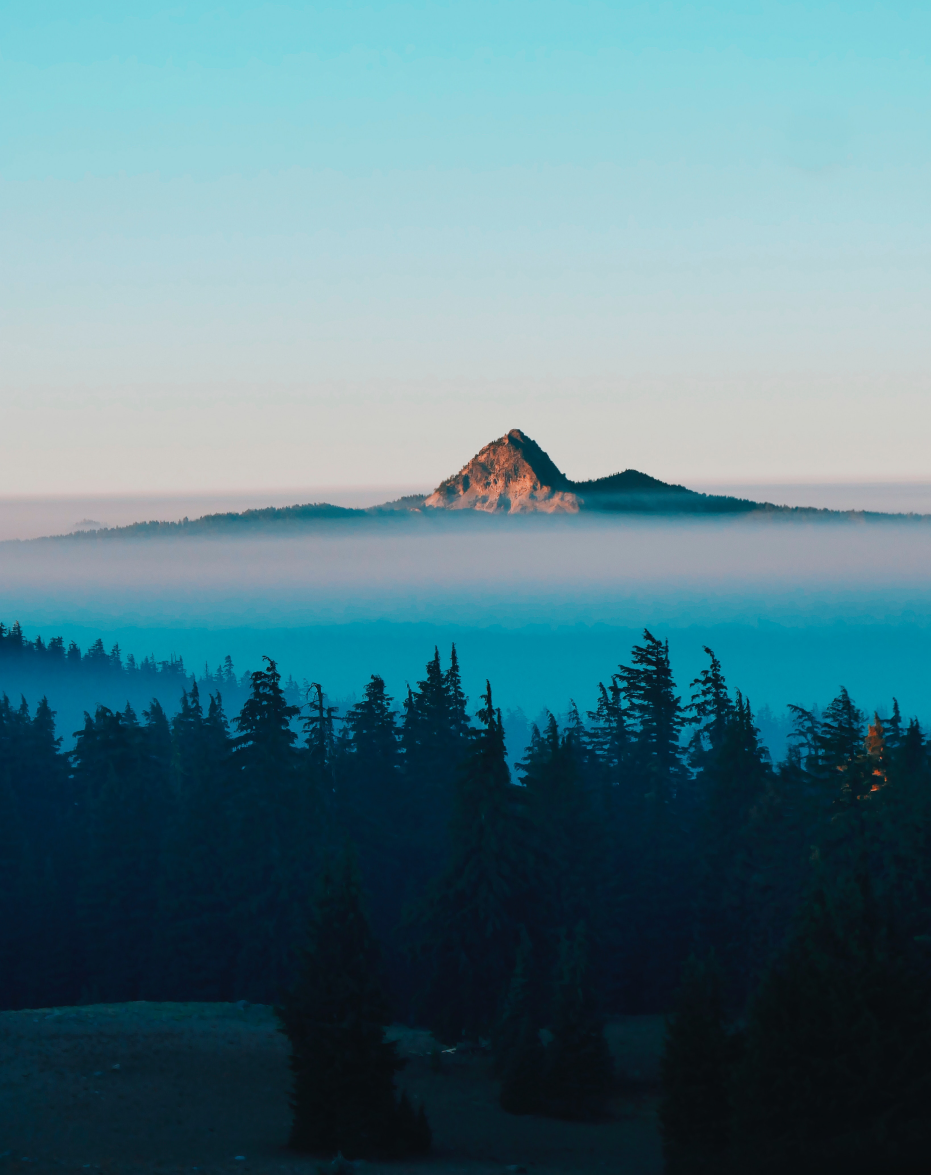
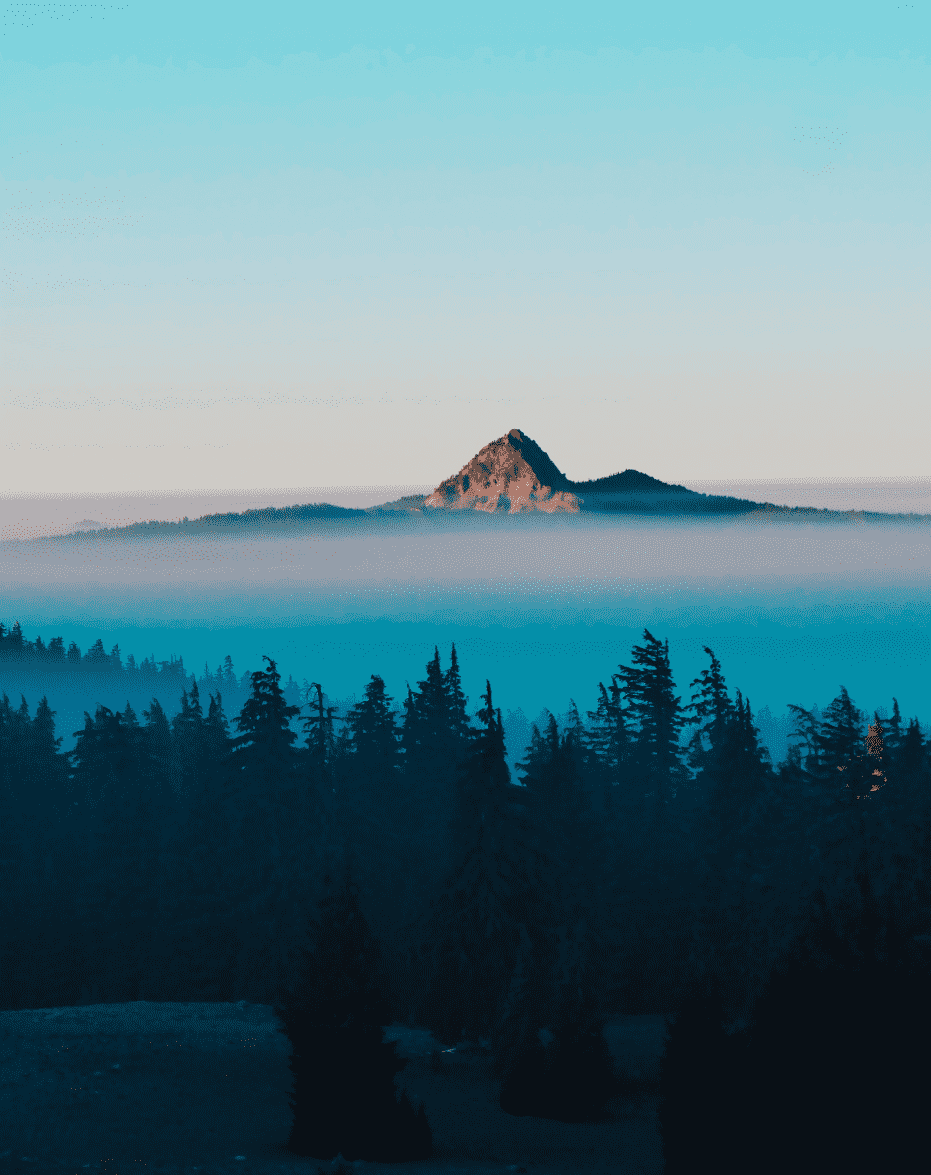
compressed img & fixed width-enxtension

Changed region(s): [[0.0, 0.3677, 1.0, 0.5515], [0.9345, 0.6128, 0.9656, 0.674], [0.8099, 0.6128, 0.841, 0.6434]]

diff --git a/src/App.scss b/src/App.scss
@@ -117,7 +117,7 @@ $paragraph-size: 1.8em;
       }
     
       to {
-        width: calc((50%-20px)/2);
+        width: 20px
       }
     }
   
@@ -127,13 +127,13 @@ $paragraph-size: 1.8em;
         }
       
       to {
-          width: calc((50%-20px)/2);
+          width: 20px
       }
   }
   
   @keyframes width-extension-r {
     from {
-        width: calc((50%-20px)/2);
+        width: 20px
   
       }
     
@@ -145,7 +145,7 @@ $paragraph-size: 1.8em;
   
   @-webkit-keyframes width-extension-r {
     from {
-        width: calc((50%-20px)/2);
+        width:20px
   
       }
     

diff --git a/src/App.css b/src/App.css
@@ -68,23 +68,23 @@
   from {
     width: 0; }
   to {
-    width: calc((50%-20px)/2); } }
+    width: 20px; } }
 
 @keyframes width-extension {
   from {
     width: 0; }
   to {
-    width: calc((50%-20px)/2); } }
+    width: 20px; } }
 
 @keyframes width-extension-r {
   from {
-    width: calc((50%-20px)/2); }
+    width: 20px; }
   to {
     width: 0; } }
 
 @-webkit-keyframes width-extension-r {
   from {
-    width: calc((50%-20px)/2); }
+    width: 20px; }
   to {
     width: 0; } }
 
